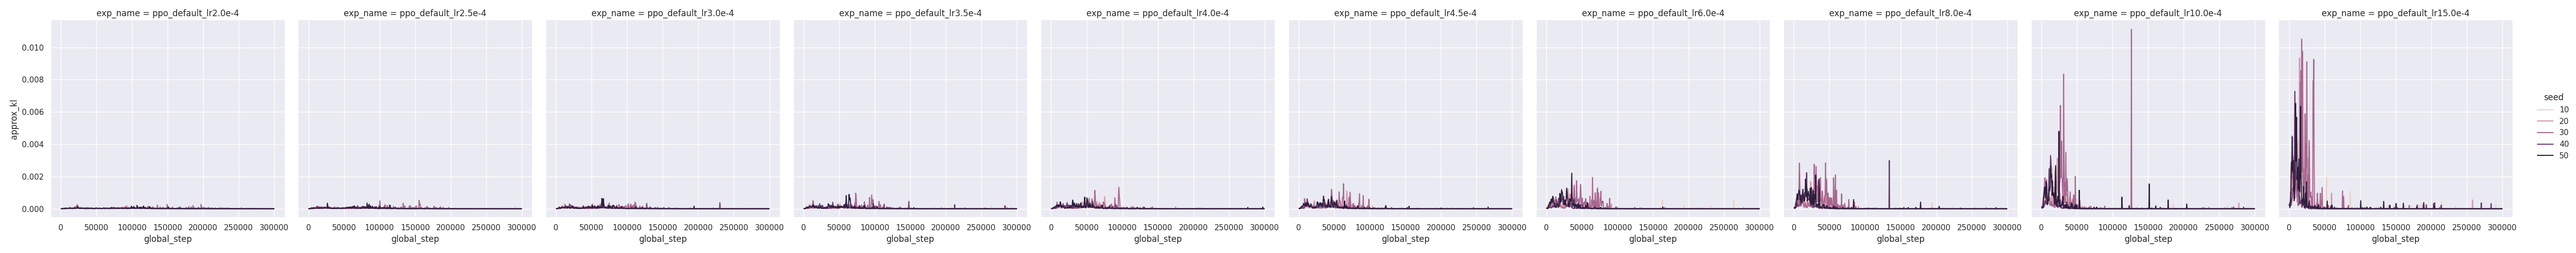
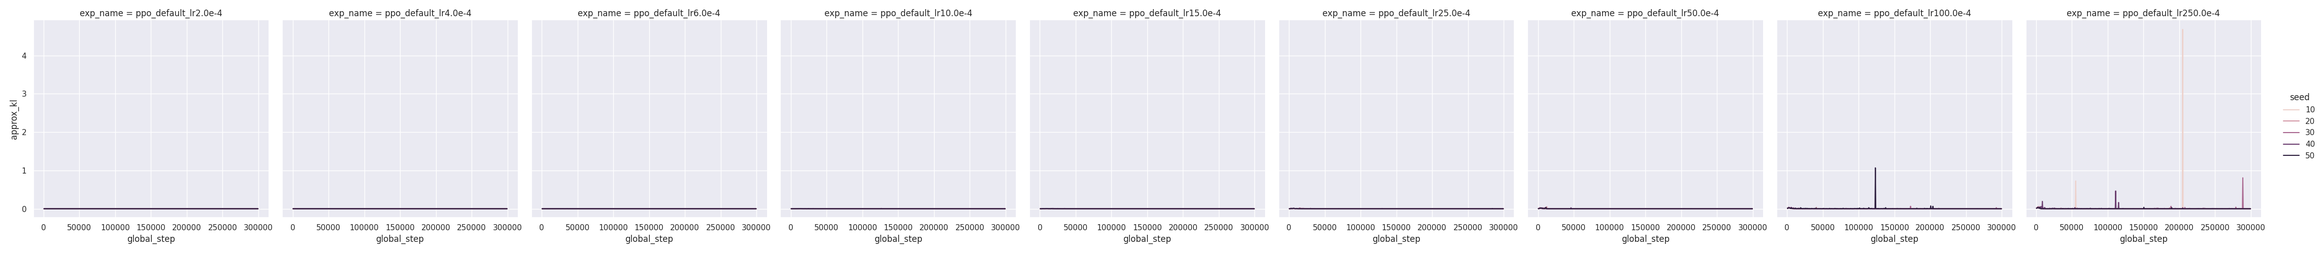
new tests

diff --git a/test_log.py b/test_log.py
@@ -23,13 +23,13 @@ plot_dir = plots_dir + "/Hyperparameter-Test-1_PPO-LR"
 gym_id = "Deterministic-ShortestPath-4x4-FrozenLake-v0"
 exp_names = [
     "ppo_default_lr2.0e-4",
-    "ppo_default_lr2.5e-4",
-    "ppo_default_lr3.0e-4",
-    "ppo_default_lr3.5e-4",
+    # "ppo_default_lr2.5e-4",
+    # "ppo_default_lr3.0e-4",
+    # "ppo_default_lr3.5e-4",
     "ppo_default_lr4.0e-4",
-    "ppo_default_lr4.5e-4",
+    # "ppo_default_lr4.5e-4",
     "ppo_default_lr6.0e-4",
-    "ppo_default_lr8.0e-4",
+    # "ppo_default_lr8.0e-4",
     "ppo_default_lr10.0e-4",
     "ppo_default_lr15.0e-4",
     "ppo_default_lr25.0e-4",
